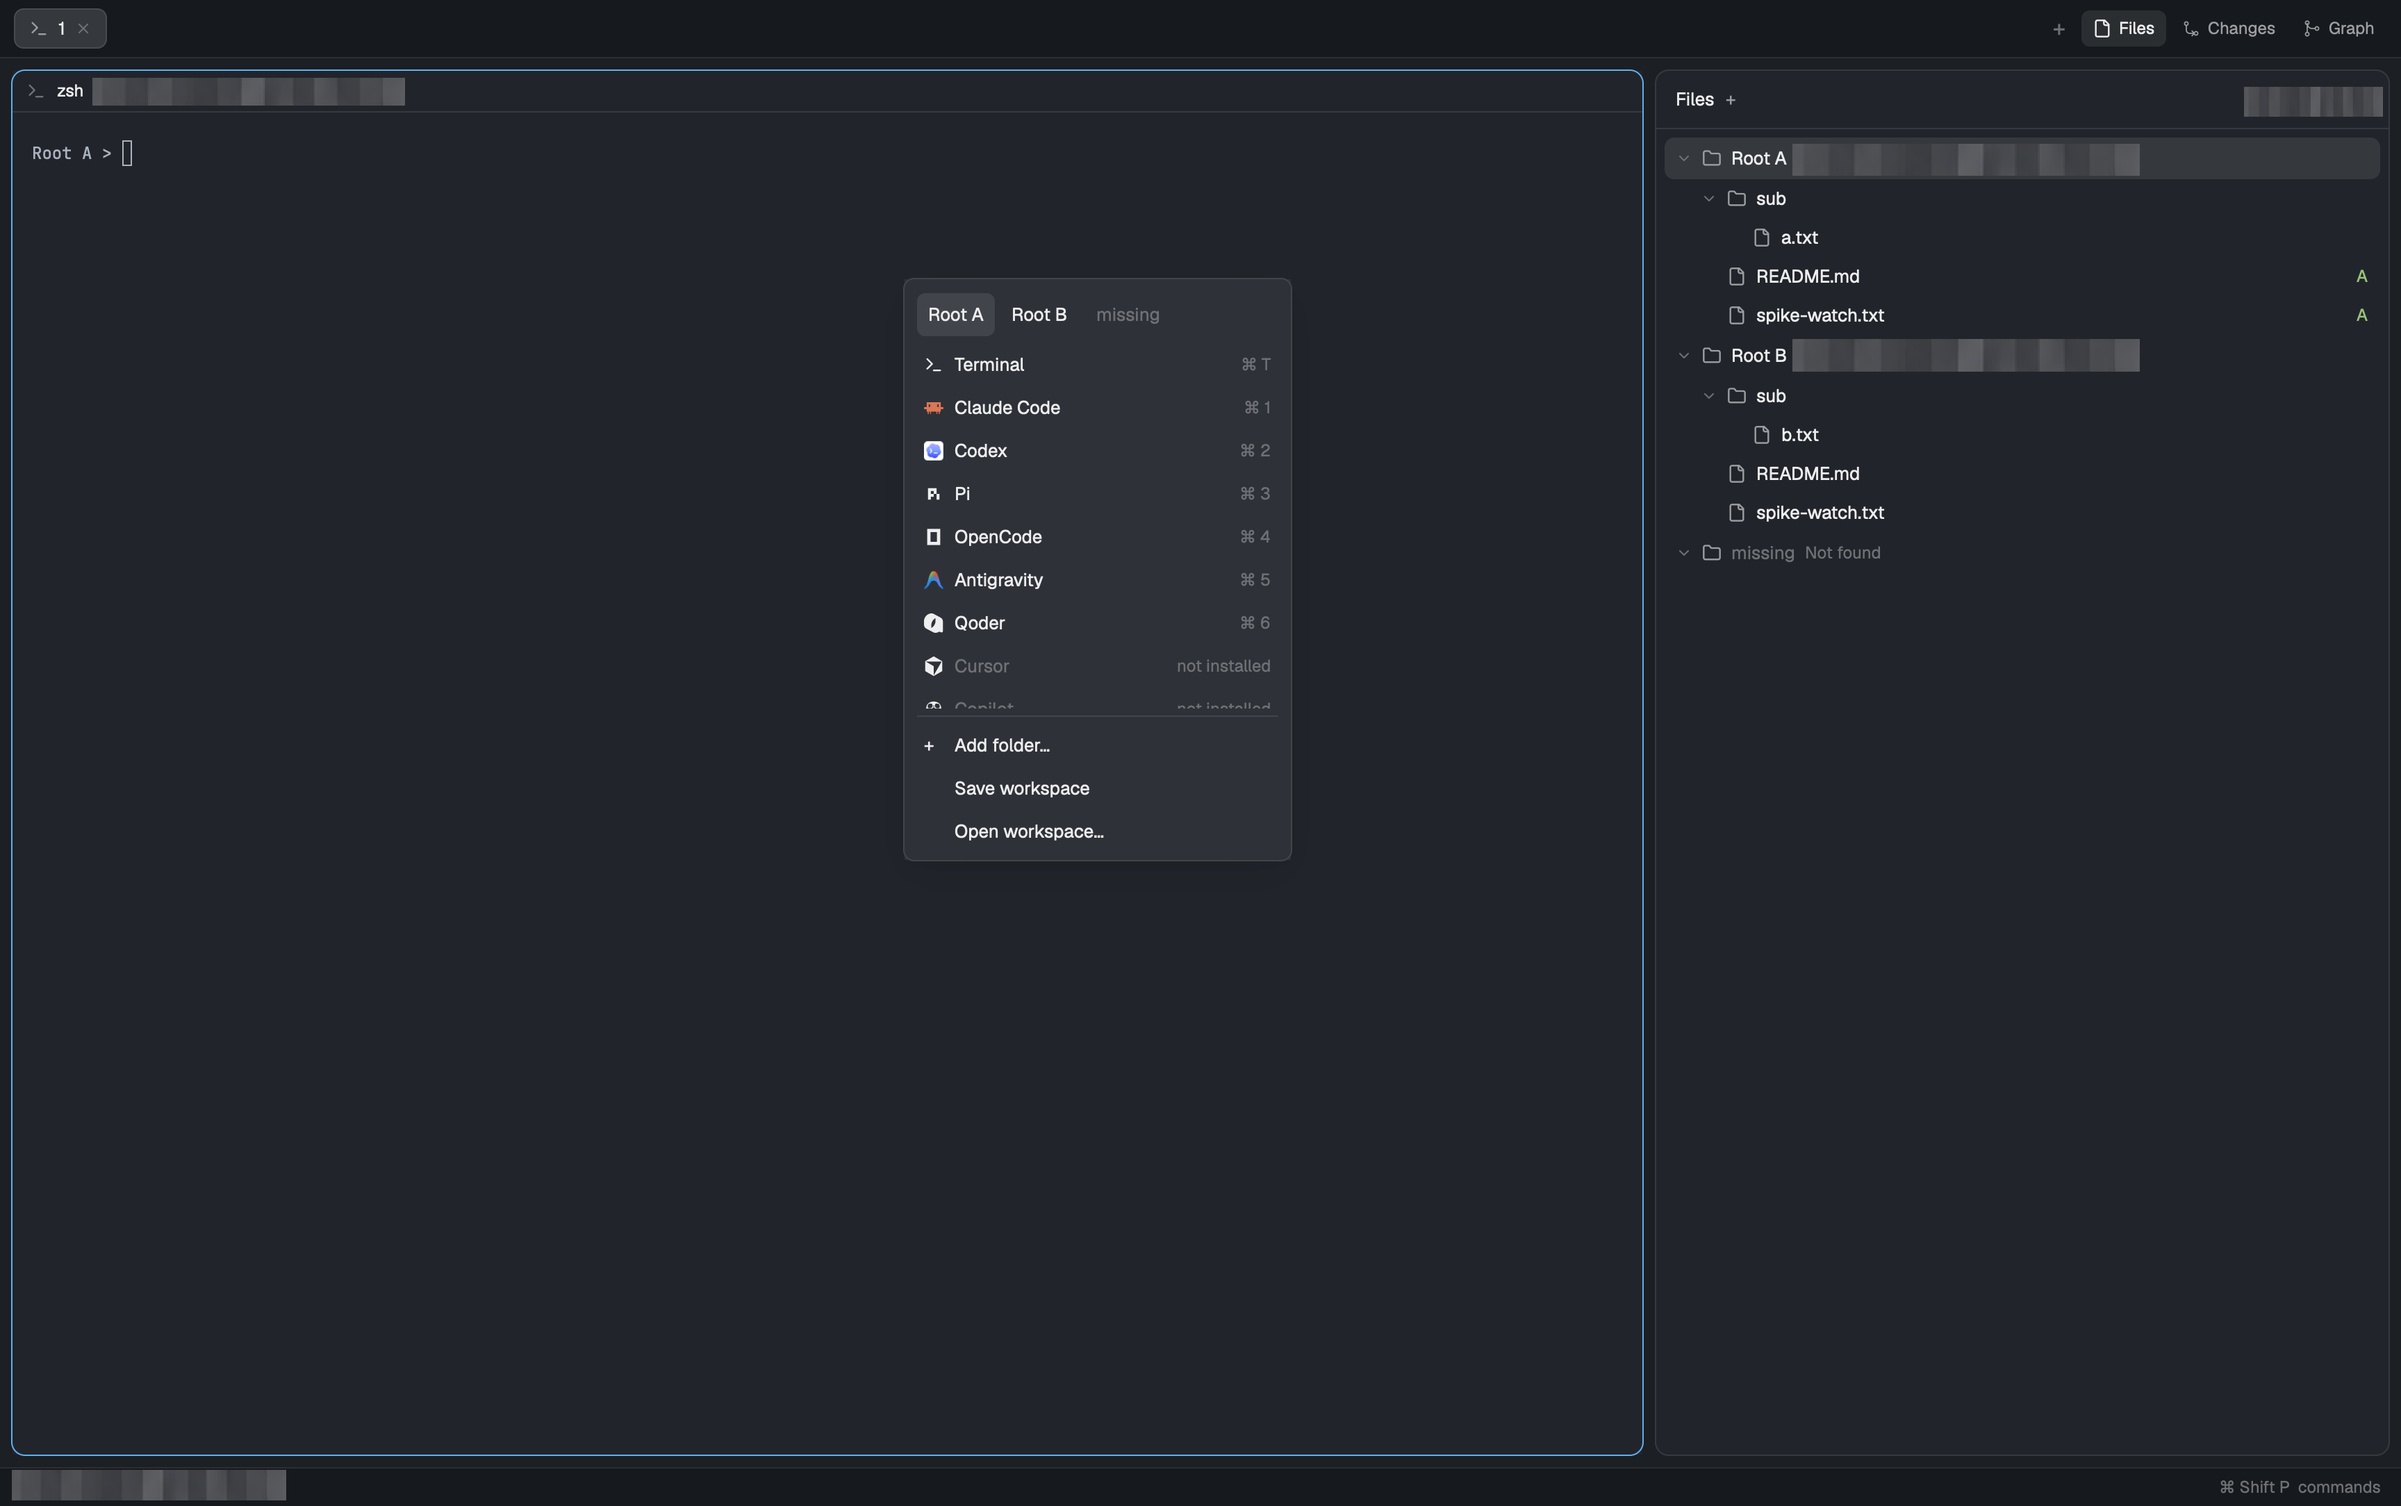
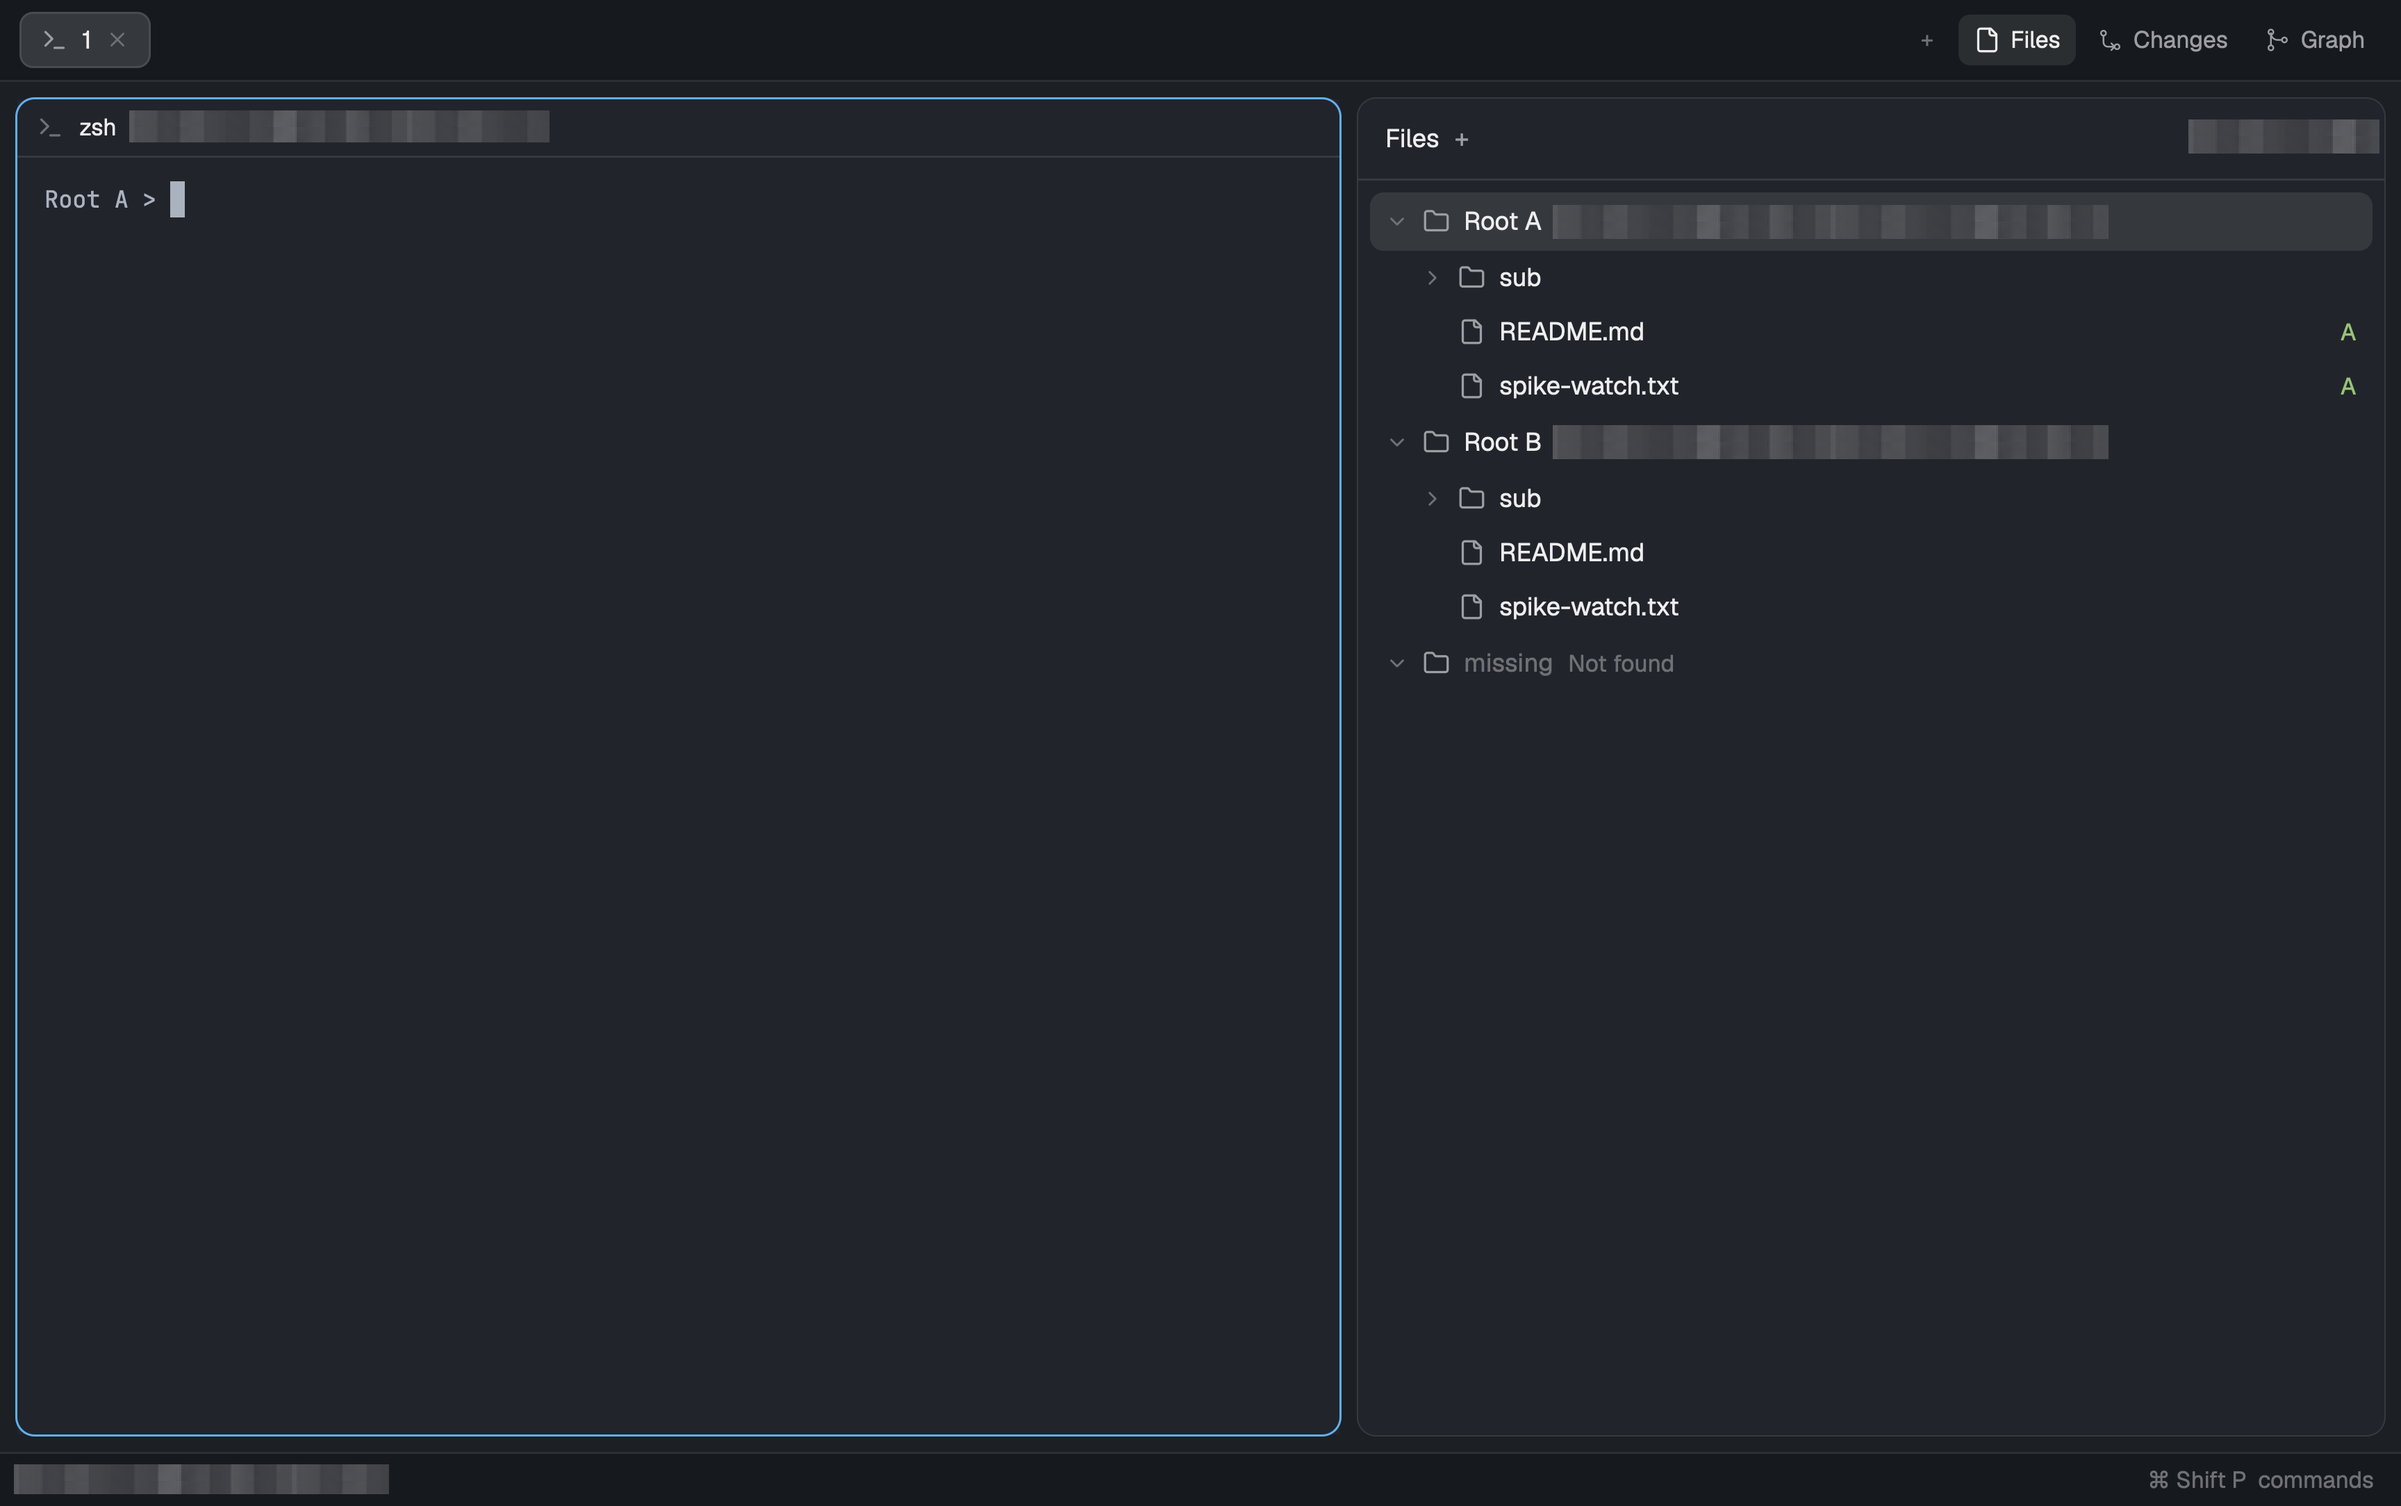
fix(multi-root): recapture preview with native sRGB colors

diff --git a/docs/plans/multi-root.md b/docs/plans/multi-root.md
@@ -324,9 +324,10 @@ The official catalog says repository/topic discovery occurs within an hour. Comm
 
 - Source commit `b13cac957629771cfe1fdbdc5c1f02f5f925d7e5` was fast-forwarded to `main`, pushed to `origin/main` and read back from the remote ref.
 - [linziyanleo/herdr-mods](https://github.com/linziyanleo/herdr-mods) is public with the `herdr-mod` topic. GitHub topic search finds it. The package at `multi-root/` contains `mods/`, `keys.json`, `RECIPE.md`, `preview.png` and upstream notices, without `layouts/`.
[2 lines of base64/hex data omitted]
 - The [official catalog index](https://assets.herdr.dev/mods/index.json), generated at `2026-10-30T19:00:16.466Z`, contains `linziyanleo/herdr-mods`, path `multi-root`, title `Multi-Roots` and the recipe's introductory paragraph as its description. It identifies all three runtime mods, `hasKeys: true` and `hasPreview: true`.
 - The catalog entry does not yet have an approved `previewUrl`. The real, mosaiced image is public in GitHub; its display in the [Herdr catalog](https://herdr.dev/mods/) remains pending the site's image screening, which requires at least 24 hours. No image-approval claim is made.
+- Preview re-capture: the first redacted PNG had an incorrect `gAMA` value of `2.19998`, causing a washed-out appearance in color-managed viewers. A fresh `herdr-app shot` of the running Files panel now retains the original `sRGB` chunk and has no `gAMA` override. The existing mosaic texture is reused in five privacy regions. Pixel comparison confirms that all pixels outside those regions match the new native capture exactly; resolution remains 3456 × 2168. The original space, pane and panel visibility were restored afterward.
 
 Run `herdr-app check <installed mod folder>` after every change. For UI changes, run `herdr-app status` (no mod errors, no `layout.error`) and inspect a `herdr-app shot` screenshot.
 

diff --git a/multi-root/RECIPE.md b/multi-root/RECIPE.md
@@ -4,7 +4,7 @@ Keep several folders in one Herdr space. Browse every root together, choose wher
 
 ![Multi-Roots](preview.png)
 
-The preview is captured from the running mod. Directory paths, the workspace name and personal status information are mosaiced; the interface outside those regions is unchanged.
+The preview is captured from the running mod. Directory paths, the workspace name and personal status information are mosaiced; the interface outside those regions is unchanged. The PNG preserves the capture's sRGB color metadata.
 
 ## What you see
 
